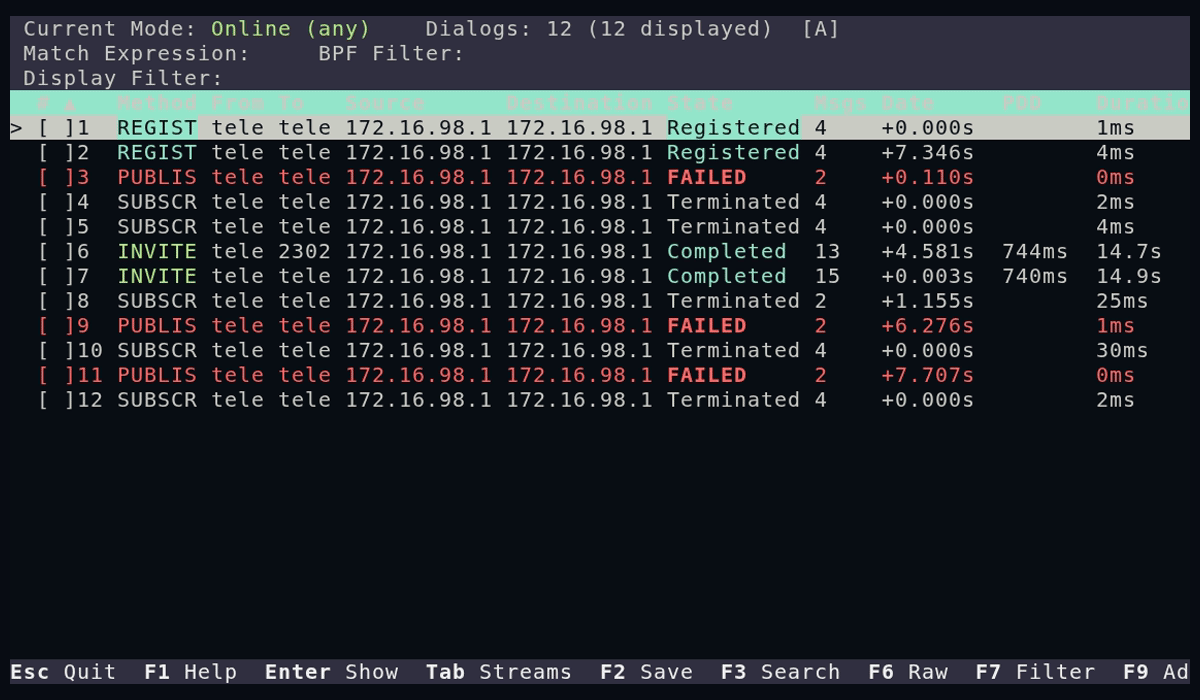
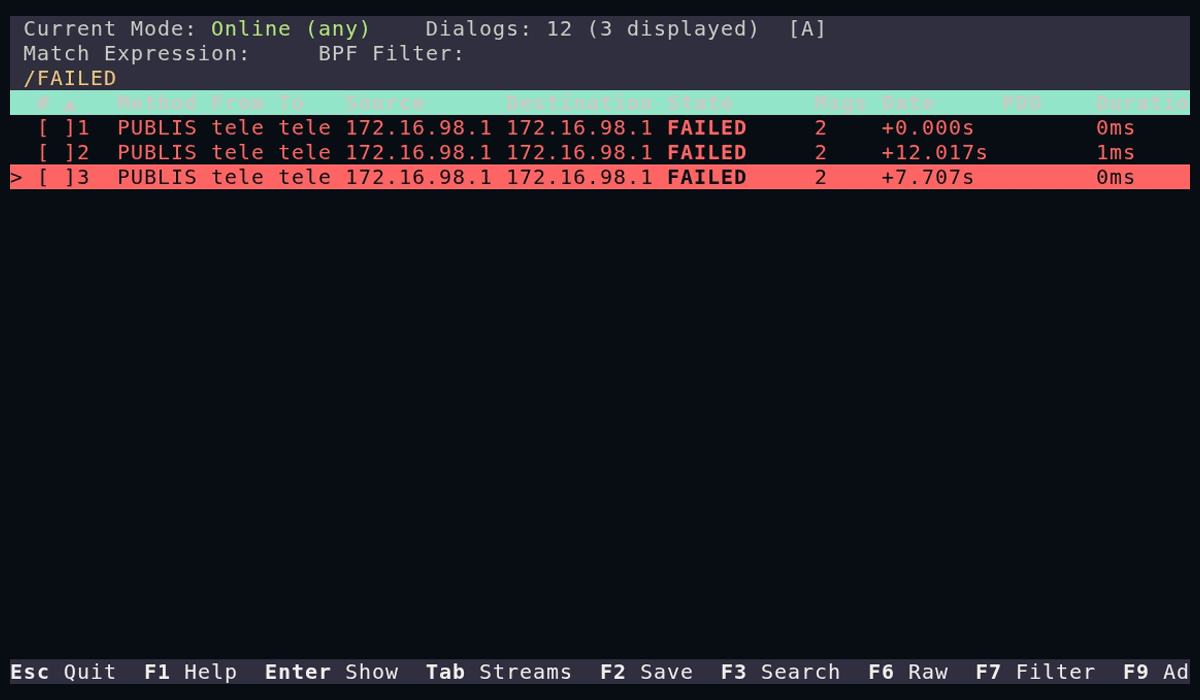
fix(demo): filter demo queries never narrowed the dialog list (#156)
04-filter.tape searched "INVITE" and "REGIS" against
b2bua-asterisk.pcapng, but the search's full-text fallback scans raw
message bytes and every dialog carries Allow: headers listing those
methods — the GIF showed the header pinned at "12 (12 displayed)" for
its whole runtime. A filter demo where nothing filters.

Switch the tape to queries that visibly narrow ("2302" -> one call,
"FAILED" -> failed dialogs only), re-render the GIF and poster, bump
the cache-buster, and add a site_journey_test gate that replays every
'/'-typed tape query against the tape's own pcap through the real TUI
search path, asserting each one strictly narrows the list. Homepage
test count 2542 -> 2543.

diff --git a/website/templates/index.html b/website/templates/index.html
@@ -56,7 +56,7 @@
       </div>
       <div class="demo-panel" data-demo="3" role="tabpanel" id="demo-panel-3" aria-labelledby="demo-tab-3">
         <p class="demo-desc">Press <kbd>/</kbd> to narrow the dialog list as you type, matching method, From, To, and Call-ID in real time.</p>
-        <img src="{{ get_url(path='demos/04-filter.gif') }}?v=7" alt="sipnab live search demo narrowing the dialog list" loading="lazy">
+        <img src="{{ get_url(path='demos/04-filter.gif') }}?v=8" alt="sipnab live search demo narrowing the dialog list" loading="lazy">
       </div>
       <div class="demo-panel" data-demo="4" role="tabpanel" id="demo-panel-4" aria-labelledby="demo-tab-4">
         <p class="demo-desc">Follow a B2BUA call end to end — press <kbd>x</kbd> for extended flow to stitch the correlated back-to-back-UA legs into one ladder.</p>
@@ -165,7 +165,7 @@ sipnab -N --json -I capture.pcap --problems</code></pre>
           <tr><td>REST API + Prometheus</td><td>Query dialogs, streams, stats via HTTP. Prometheus metrics endpoint.</td></tr>
           <tr><td>MCP server</td><td>Drive sipnab from an AI agent (Claude Code, Claude Desktop, …) over stdio or HTTP. Eleven read-only tools cover dialogs, RTP, diagnostics, and security findings.</td></tr>
           <tr><td>Browser analysis</td><td>Analyze pcap files in the browser via WASM. Zero upload, zero install.</td></tr>
-          <tr><td>Built in Rust</td><td>Memory-safe by construction. 2542 automated tests. 5 MB static binary.</td></tr>
+          <tr><td>Built in Rust</td><td>Memory-safe by construction. 2543 automated tests. 5 MB static binary.</td></tr>
         </tbody>
       </table>
     </div>
@@ -236,7 +236,7 @@ sipnab -N --json -I capture.pcap --problems</code></pre>
         <span class="arch-label"><a href="{{ get_url(path='@/docs/benchmarks.md') }}">Offline reconstruction, multi-core (measured v0.4.16)</a></span>
       </div>
       <div class="arch-item fade-in-up">
-        <span class="arch-stat" data-count="2542" data-suffix="">2542</span>
+        <span class="arch-stat" data-count="2543" data-suffix="">2543</span>
         <span class="arch-label"><a href="{{ config.extra.github_url }}/actions/workflows/ci.yml">Automated tests</a></span>
       </div>
     </div>

diff --git a/tests/site_journey_test.rs b/tests/site_journey_test.rs
@@ -289,6 +289,100 @@ fn docs_page_weights_are_unique_and_descriptions_present() {
 }
 
 // ---------------------------------------------------------------------------
+// Search-demo journey: every query the filter demo tape types must actually
+// narrow the dialog list of the pcap the tape plays. Shipped broken on
+// 2026-07-18: 04-filter.tape searched "INVITE"/"REGIS" against
+// b2bua-asterisk.pcapng, but the search's full-text fallback scans raw
+// message bytes and every dialog carries `Allow: ... INVITE ...` headers —
+// the GIF showed "/INVITE" typed with the header pinned at "12 (12
+// displayed)" for its whole runtime. A filter demo where nothing filters.
+// ---------------------------------------------------------------------------
+
+#[cfg(feature = "tui")]
+mod search_demo_narrowing {
+    use super::{read, repo};
+    use crossterm::event::KeyCode;
+    use sipnab::tui::App;
+    use sipnab::tui::call_list::{SortColumn, displayed_dialogs};
+
+    /// The pcap the tape plays and each search query it types (`Type "/"`
+    /// immediately followed by another `Type "..."` line).
+    fn tape_pcap_and_queries(tape: &str) -> (String, Vec<String>) {
+        let cmd = regex::Regex::new(r#"(?m)^Type "sipnab [^"]*-I ([^"\s]+)"#).unwrap();
+        let pcap = cmd
+            .captures(tape)
+            .expect("tape types a `sipnab -I <pcap>` command")[1]
+            .to_string();
+        let typed: Vec<String> = regex::Regex::new(r#"(?m)^Type "([^"]*)""#)
+            .unwrap()
+            .captures_iter(tape)
+            .map(|c| c[1].to_string())
+            .collect();
+        let queries = typed
+            .windows(2)
+            .filter(|w| w[0] == "/")
+            .map(|w| w[1].clone())
+            .collect();
+        (pcap, queries)
+    }
+
+    #[test]
+    fn every_typed_search_query_narrows_the_demo_pcap() {
+        let tape = read("demos/04-filter.tape");
+        let (pcap_rel, queries) = tape_pcap_and_queries(&tape);
+        assert!(
+            !queries.is_empty(),
+            "no '/'-search queries found in 04-filter.tape — extractor broken \
+             or the demo was rewritten; update this guard alongside it"
+        );
+        let pcap = repo().join(&pcap_rel);
+        assert!(pcap.is_file(), "tape references missing pcap: {pcap_rel}");
+
+        // Load the pcap through the real file-open path, then type each
+        // query exactly as the tape does and count the rows a viewer sees.
+        let mut app = App::new_test();
+        app.handle_key(KeyCode::Char('O'));
+        app.handle_key(KeyCode::Tab);
+        app.open_path_clear_for_test();
+        for c in pcap.to_string_lossy().chars() {
+            app.handle_key(KeyCode::Char(c));
+        }
+        app.handle_key(KeyCode::Enter);
+
+        let shown_with = |app: &App, q: &str| {
+            let store = app.dialog_store_ref().read();
+            displayed_dialogs(&store, None, q, SortColumn::Index, true).len()
+        };
+        let total = shown_with(&app, "");
+        assert!(
+            total > 1,
+            "expected a multi-dialog pcap, got {total} dialogs"
+        );
+
+        for q in &queries {
+            app.handle_key(KeyCode::Char('/'));
+            for c in q.chars() {
+                app.handle_key(KeyCode::Char(c));
+            }
+            let shown = shown_with(&app, app.search_query());
+            app.handle_key(KeyCode::Esc);
+            assert!(
+                shown > 0,
+                "demo query \"/{q}\" matches nothing in {pcap_rel} — the \
+                 viewer would watch the list vanish"
+            );
+            assert!(
+                shown < total,
+                "demo query \"/{q}\" matches all {total} dialogs in \
+                 {pcap_rel} (full-text fallback scans raw messages, e.g. \
+                 Allow: headers) — the list never visibly narrows, so the \
+                 filter demo demonstrates nothing"
+            );
+        }
+    }
+}
+
+// ---------------------------------------------------------------------------
 // CSP journey: the production Content-Security-Policy allows inline <script>
 // blocks by sha256 hash but does NOT grant 'unsafe-inline'/'unsafe-hashes',
 // so inline event-handler attributes (onclick=, onkeydown=, oninput=, ...)
